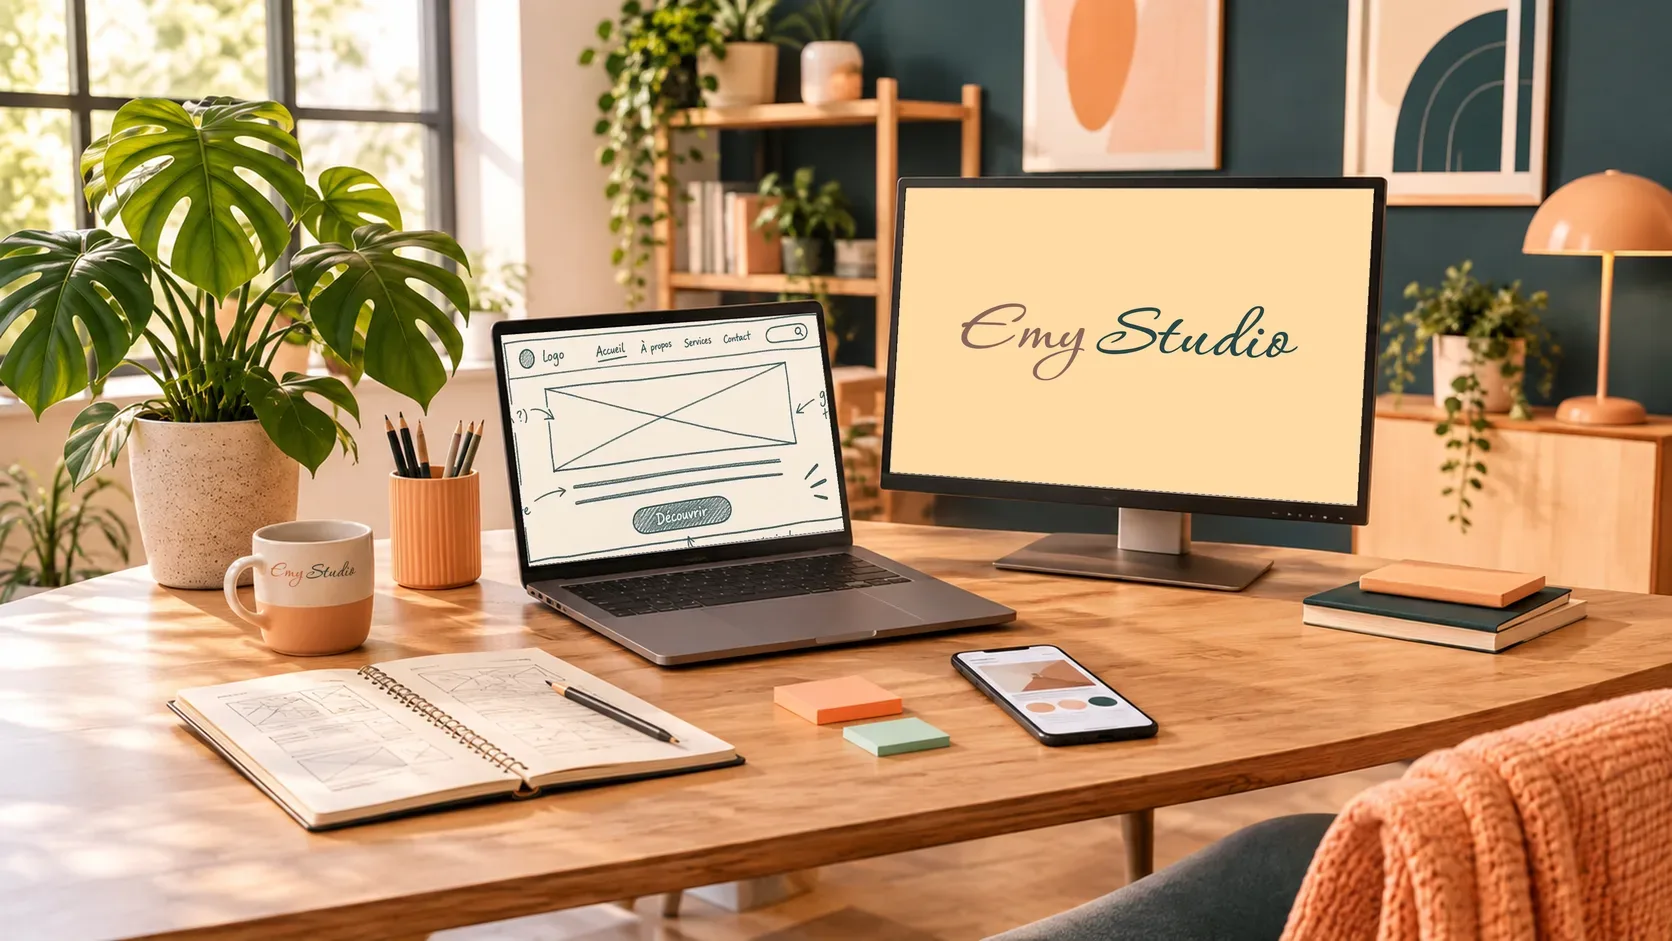
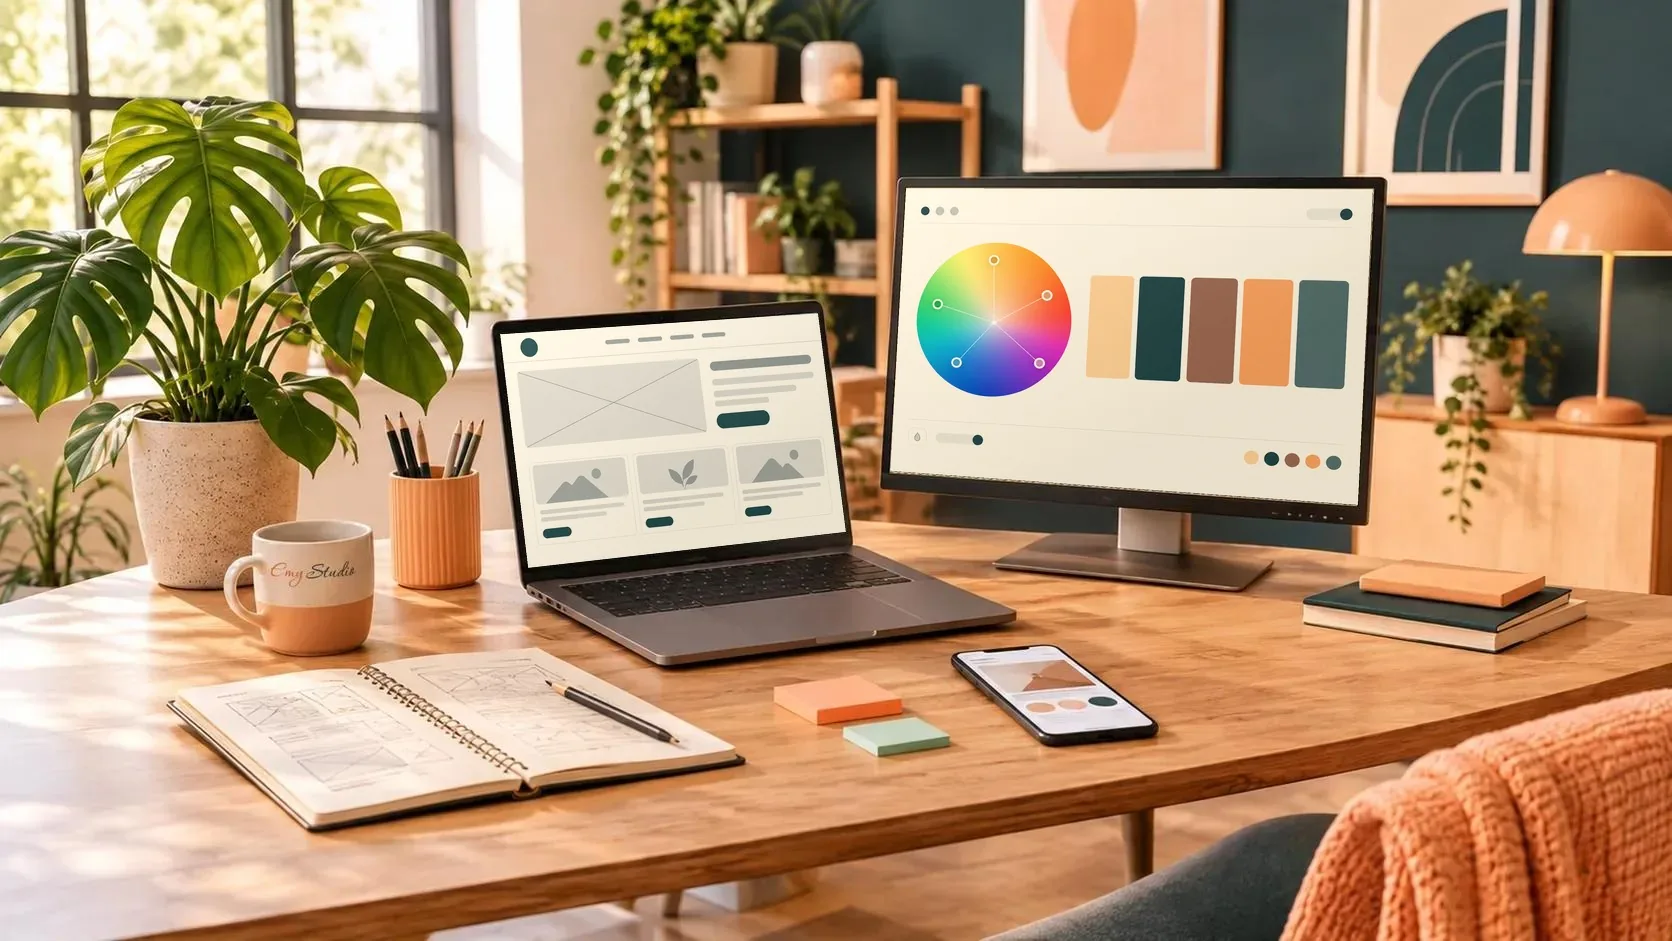
Trial: atelier photo screens show a clean wireframe and a colour-wheel palette

Changed region(s): [[0.5287, 0.1849, 0.8397, 0.5547], [0.311, 0.339, 0.4976, 0.6164]]

diff --git a/index.html b/index.html
@@ -85,7 +85,7 @@
         <p>Voici quelques-uns de mes projets, de la conception à la mise en ligne. Cliquez sur une vignette pour découvrir les détails.</p>
       </div>
         <div class="paper-veil" aria-hidden="true"></div>
-        <div class="paper-notes puzzle" aria-hidden="true" data-img="assets/transition/atelier.webp" data-ratio="1.777"></div>
+        <div class="paper-notes puzzle" aria-hidden="true" data-img="assets/transition/atelier.webp?v=2" data-ratio="1.777"></div>
       </div>
     </section>
     </div>
